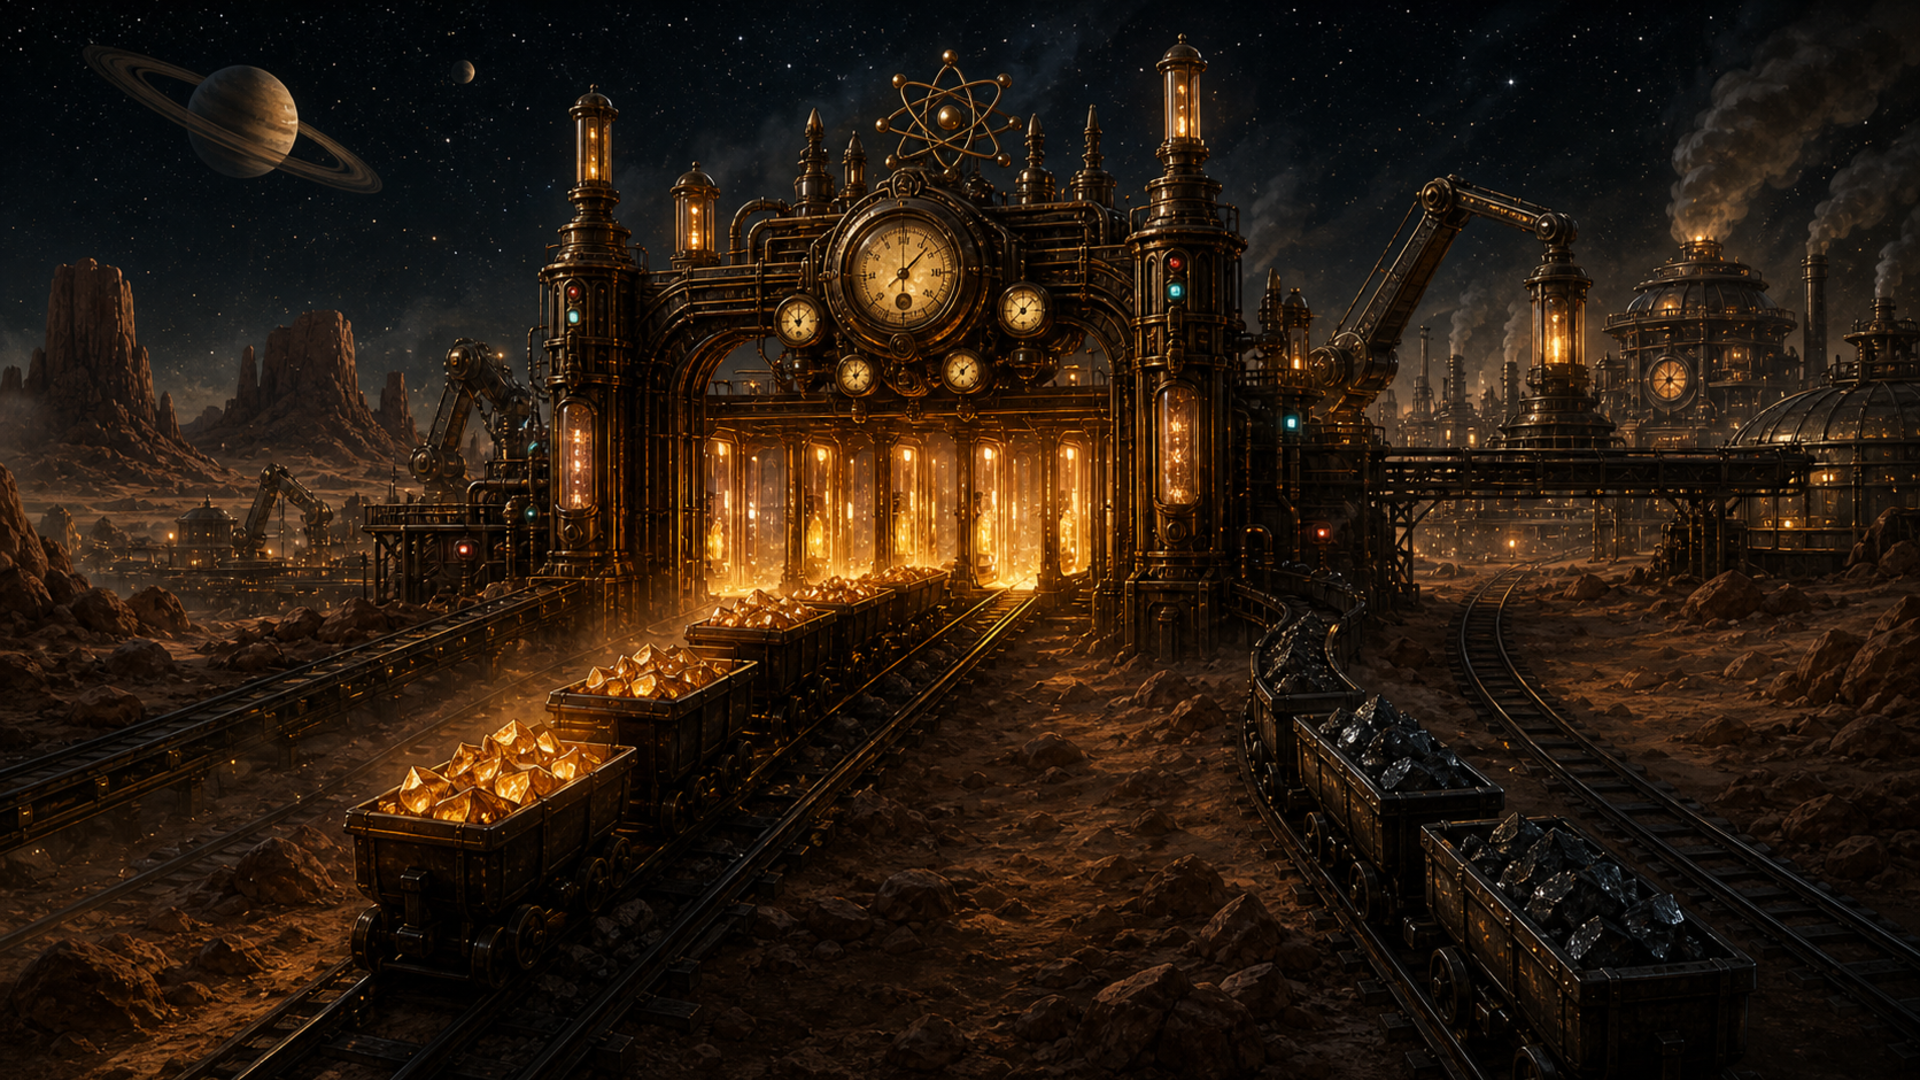
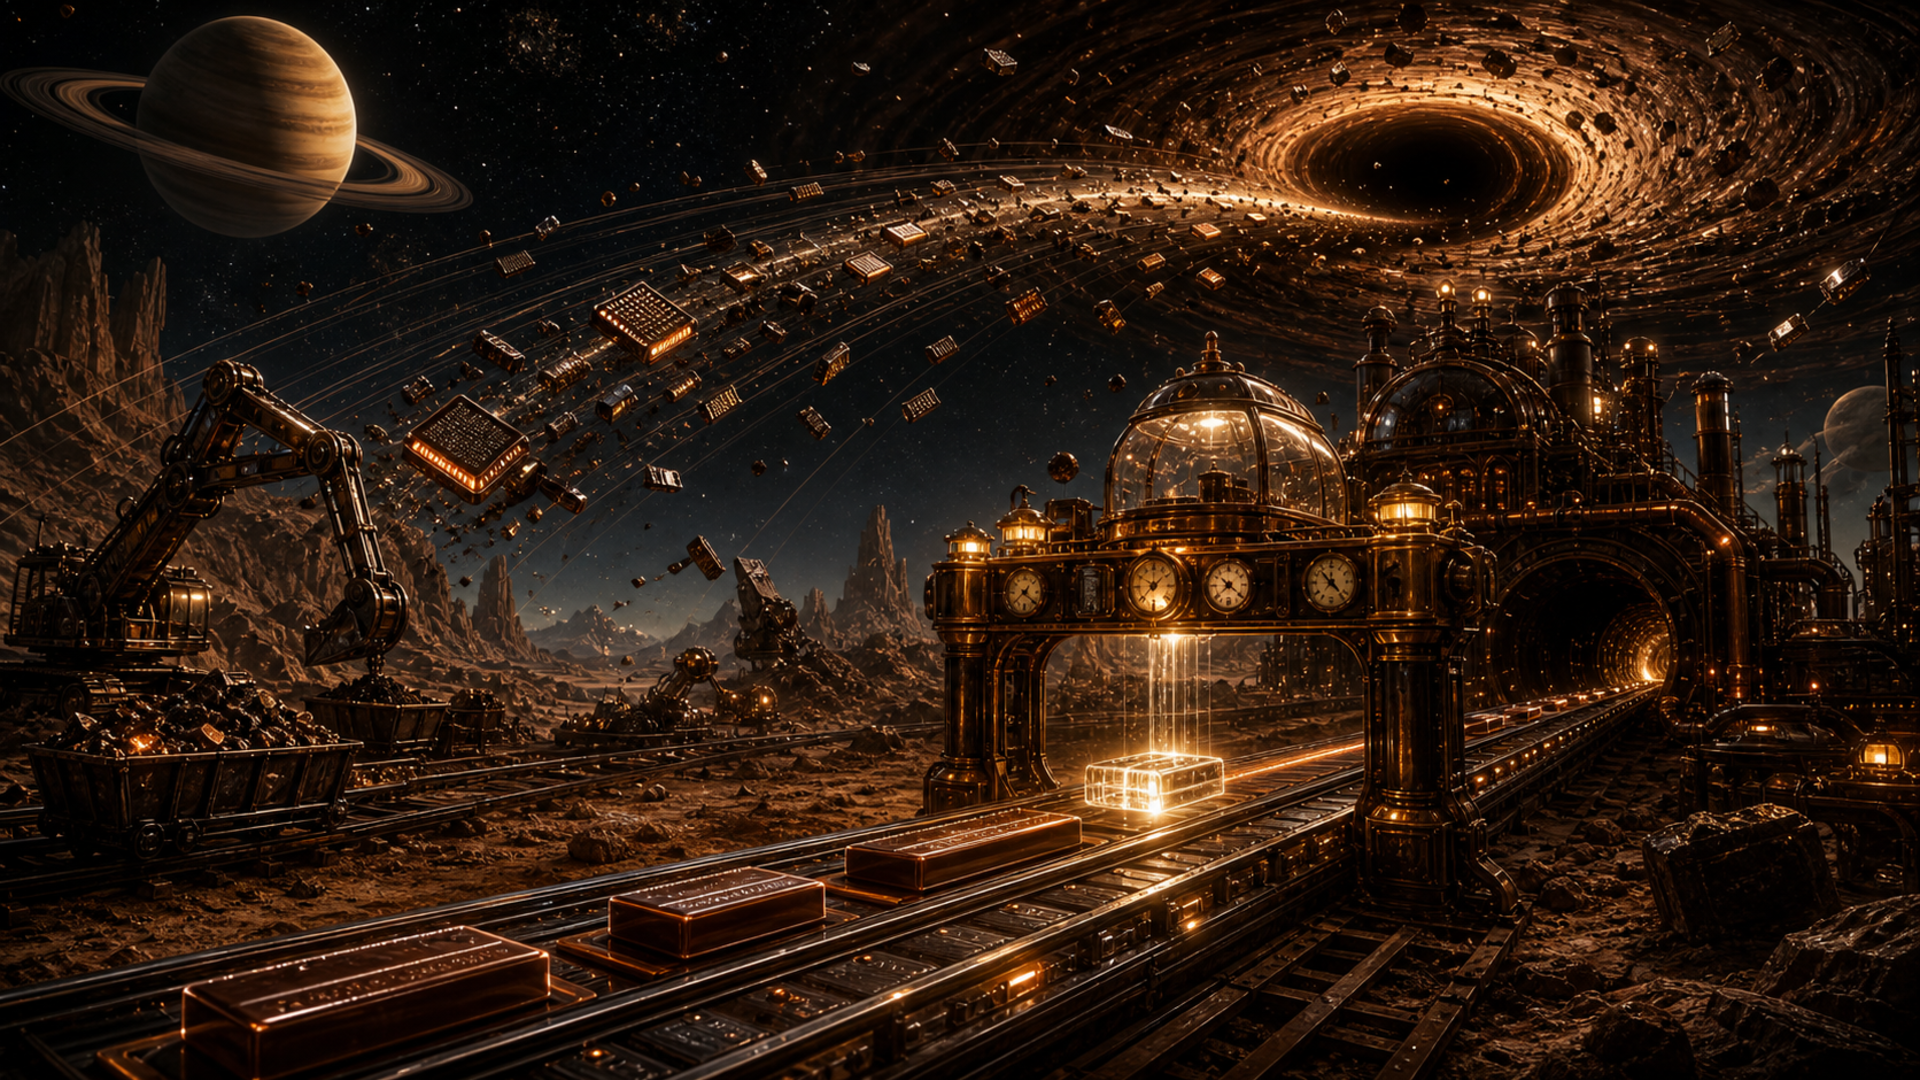
Refine upcoming article teasers

diff --git a/src/shared-components/pages/Home/Home.tsx b/src/shared-components/pages/Home/Home.tsx
@@ -39,10 +39,11 @@ const fallbackArticles: HomeArticleTeaser[] = [
 const upcomingPosts = [
   {
     title: "The Filter",
-    label: "Draft article",
+    label: "Coming soon",
     text: "Cost and scarcity return as useful pressure. The factory math starts to matter.",
     image: "/home/next-series/the-filter-1950s.png",
-    alt: "A 1950s space western factory gate filtering glowing compute ore on frontier rail carts",
+    alt: "A 1950s space western black hole filtering compute chips above a factory rail checkpoint",
+    href: "/draft-lab/articles/the-ai-cost-rug-pull-isnt-a-bubble-its-a-filter",
   },
   {
     title: "The Meter",
@@ -60,17 +61,19 @@ const upcomingPosts = [
   },
   {
     title: "The Credibility Problem",
-    label: "Draft article",
+    label: "Coming soon",
     text: "AI corporate language has to earn trust again. Synthetic persuasion has a source problem.",
     image: "/home/next-series/the-credibility-problem-1950s.png",
     alt: "A cracked 1950s broadcast screen being examined by a glowing proof-chain machine",
+    href: "/draft-lab/articles/the-credibility-problem-with-ai-corporate-communications",
   },
   {
     title: "The Crew",
-    label: "Draft seed",
+    label: "Coming soon",
     text: "The human role moves from typing to orchestration. Three people, one operating floor.",
     image: "/home/next-series/the-crew-1950s.png",
     alt: "A western-hat foreman coordinating retro robot workers across a vast space factory",
+    href: "/draft-lab/articles/the-crew-seed",
   },
 ];
 
@@ -311,25 +314,37 @@ export const Home: React.FC<HomePageProps> = ({
             </p>
           </div>
           <div className={styles.postList}>
-            {upcomingPosts.map((post) => (
-              <article className={styles.postItem} key={post.title}>
-                <span className={styles.postImageWrap}>
-                  <Image
-                    src={post.image}
-                    alt={post.alt}
-                    fill
-                    sizes="(max-width: 900px) 100vw, 20vw"
-                    className={styles.postImage}
-                  />
-                  <span className={styles.postTint} />
-                </span>
-                <span className={styles.postBody}>
-                  <span className={styles.postStatus}>{post.label}</span>
-                  <span className={styles.postTitle}>{post.title}</span>
-                  <span className={styles.postText}>{post.text}</span>
-                </span>
-              </article>
-            ))}
+            {upcomingPosts.map((post) => {
+              const postContent = (
+                <>
+                  <span className={styles.postImageWrap}>
+                    <Image
+                      src={post.image}
+                      alt={post.alt}
+                      fill
+                      sizes="(max-width: 900px) 100vw, 20vw"
+                      className={styles.postImage}
+                    />
+                    <span className={styles.postTint} />
+                  </span>
+                  <span className={styles.postBody}>
+                    <span className={styles.postStatus}>{post.label}</span>
+                    <span className={styles.postTitle}>{post.title}</span>
+                    <span className={styles.postText}>{post.text}</span>
+                  </span>
+                </>
+              );
+
+              return post.href ? (
+                <Link className={styles.postItem} href={post.href} key={post.title}>
+                  {postContent}
+                </Link>
+              ) : (
+                <article className={styles.postItem} key={post.title}>
+                  {postContent}
+                </article>
+              );
+            })}
           </div>
         </div>
       </section>

diff --git a/app/draft-lab/articles/[slug]/page.tsx b/app/draft-lab/articles/[slug]/page.tsx
@@ -36,7 +36,7 @@ const allCandidates = [...candidates, ...removedCandidates];
 const draftHeroImages: Record<string, { src: string; alt: string; caption: string }> = {
   'the-ai-cost-rug-pull-isnt-a-bubble-its-a-filter': {
     src: '/home/next-series/article-heroes/the-filter-linkedin.png',
-    alt: 'A 1950s space western factory gate filtering glowing compute ore on frontier rail carts',
+    alt: 'A 1950s space western black hole filtering compute chips above a factory rail checkpoint',
     caption: 'The Filter: cost and scarcity return as useful pressure.',
   },
   'the-credibility-problem-with-ai-corporate-communications': {

diff --git a/src/shared-components/pages/Home/Home.module.css b/src/shared-components/pages/Home/Home.module.css
@@ -455,6 +455,17 @@
   border-radius: 8px;
   background: #101316;
   color: #fff8ec;
+  text-decoration: none;
+  transition:
+    border-color 160ms ease,
+    transform 160ms ease;
+}
+
+a.postItem:hover,
+a.postItem:focus-visible {
+  border-color: #ffcf82;
+  transform: translateY(-2px);
+  outline: none;
 }
 
 .postImageWrap {
